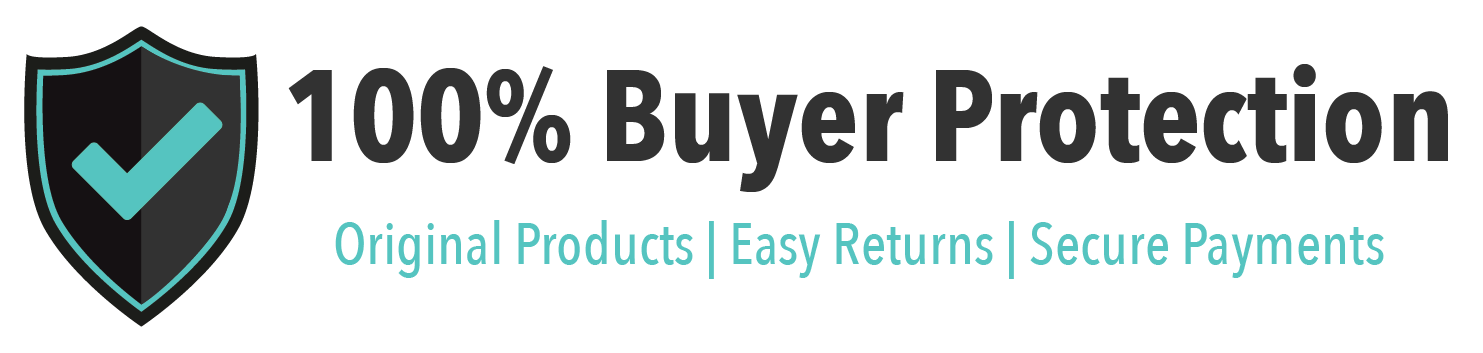
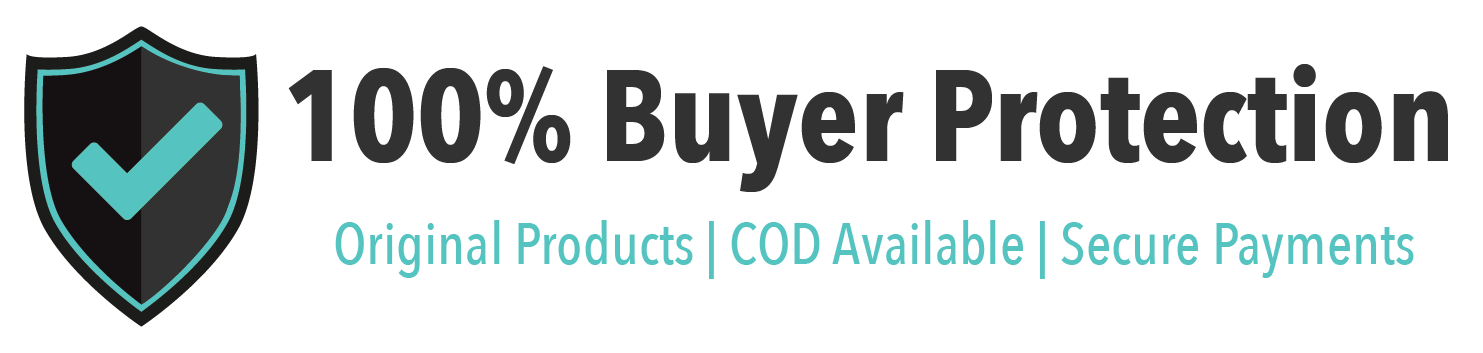
Updates for no return

Changed region(s): [[0.4963, 0.6232, 0.9616, 0.779]]

diff --git a/backend/returns/returns_request_logistics_partner.php b/backend/returns/returns_request_logistics_partner.php
@@ -1,33 +1,24 @@
 <?php
-
 include 'db_config.php';
 $path = __DIR__;
 require_once $path.'/../../app/Mage.php';
 Mage::app();
-
-
 $today = date("Y-m-d");
-
 $today = date('Y-m-d H:i:s', strtotime($today));
-
 $tomorrow = strtotime ( '+24 hours' , strtotime ($today )) ;  //Find tomorrow's date;
-
 $tomorrow = date('Y-m-d', $tomorrow);
-
 $query = "SELECT id FROM thredshare_returns WHERE pickup_date = '$tomorrow' AND waybill_number = '' AND status = 'requested'";
-
 $result = mysql_query($query);
-
 $numresult = mysql_numrows($result);
-
 $return_schedule_error_list = array();
-
-if($numresult >0)
+echo $numresult;
+if($numresult > 0)
 {
 	$i = 0;
 	while ( $i < $numresult )
 	{
 		$return_id = mysql_result($result,$i,'id');
+		echo $return_id;
 		
 		$query_fetch_returns_details = "SELECT * FROM thredshare_returns WHERE id = '$return_id'";
 			
@@ -37,7 +28,6 @@ if($numresult >0)
 		
 		if (mysql_numrows($result_fetch_returns_details) != 0)
 		{
-			
 			$mobile_no = mysql_result($result_fetch_returns_details,0,'mobile');
 			$address1 = mysql_result($result_fetch_returns_details,0,'address1');
 			$address2 = mysql_result($result_fetch_returns_details,0,'address2');
@@ -49,11 +39,10 @@ if($numresult >0)
 			$amount = mysql_result($result_fetch_returns_details,0,'amount');
 			$items = mysql_result($result_fetch_returns_details,0,'items');
 			
-			
+			echo $items;
 			//get firstname and lastname
 			
 			$collection = Mage::getModel('sales/order')->getCollection()->addFieldToFilter('increment_id', $order_id);
-
 			if ($collection->count() ==0)   //Check if order ID entered is valid
 			{
 				$order_id = $order_id."-1";
@@ -67,7 +56,6 @@ if($numresult >0)
 					continue;
 				}				
 			}
-
 			
 			$order = Mage::getModel('sales/order')->loadByIncrementId($order_id);
 			
@@ -100,11 +88,9 @@ if($numresult >0)
 			{
 				$items_name = "1 Apparel";
 			}
-
 			$items = $items_name;
 			
 			$response_nuvoex = request_nuvoex_for_reverse_pickup($return_id, $order_id, $mobile_no, $address1, $address2, $city, $state, $pincode, $first_name, $last_name, $items, $item_count);			
-
 			if($response_nuvoex['request_status'] == 'FALSE')
 			{
 				//Save the error
@@ -120,7 +106,6 @@ if($numresult >0)
 				//Schedule with Pickrr
 				
 				$response_pickrr = request_pickrr_for_reverse_pickup($order_id, $mobile_no, $address1, $address2, $city, $state, $pincode, $first_name, $last_name, $items, $item_count);
-
 				if($response_pickrr['request_status'] == 'FALSE')
 				{
 					//Save the error
@@ -167,7 +152,6 @@ if($numresult >0)
 		}
 		else
 		{
-
 			//Add to error list
 			$fault = "Return ID :".$return_id." Unable to fetch details. Not scheduled<br>";
 			array_push($return_schedule_error_list, $fault);
@@ -187,15 +171,11 @@ if($numresult >0)
 	}
 	
 	
-
 }
-
 else
 {
 	echo "No data to process";
 }
-
-
 function request_pickrr_for_reverse_pickup($order_id, $mobile_no, $address1, $address2, $city, $state, $pincode, $first_name, $last_name, $items, $item_count)
 {
 	
@@ -204,7 +184,6 @@ function request_pickrr_for_reverse_pickup($order_id, $mobile_no, $address1, $ad
 	$fullname = $first_name." ".$last_name;
 	
 	$fulladdress = $address1." ".$address2." ".$city." ".$state;
-
 	$time = date("Y-m-d h:i:s", strtotime($currdate));
 	
 	$is_reverse = TRUE;
@@ -227,10 +206,7 @@ function request_pickrr_for_reverse_pickup($order_id, $mobile_no, $address1, $ad
 		'is_reverse' => "$is_reverse",
 		'client_order_id' => "$order_id",
 	);
-
-
 	$content = json_encode($fields);
-
 	$curl = curl_init($url);
 	curl_setopt($curl, CURLOPT_FOLLOWLOCATION, true);
 	curl_setopt($curl,CURLOPT_SSL_VERIFYPEER, false);
@@ -240,20 +216,14 @@ function request_pickrr_for_reverse_pickup($order_id, $mobile_no, $address1, $ad
 			array("Content-type: application/json"));
 	curl_setopt($curl, CURLOPT_POST, true);
 	curl_setopt($curl, CURLOPT_POSTFIELDS, $content);
-
 	$json_response = curl_exec($curl);
-
 	$status = curl_getinfo($curl, CURLINFO_HTTP_CODE);
 	$err     = curl_errno( $curl );
 	$errmsg  = curl_error( $curl );
 	$header  = curl_getinfo( $curl );
-
-
 	/*if ( $status != 201 || $status != 200 ) {
 		die("Error: call to URL $url failed with status $status, response $json_response, curl_error " . curl_error($curl) . ", curl_errno " . curl_errno($curl));
 	}*/
-
-
 	curl_close($curl);
 	$response = json_decode($json_response, true);
 	$trackid = $response['tracking_id'];
@@ -281,7 +251,6 @@ function request_pickrr_for_reverse_pickup($order_id, $mobile_no, $address1, $ad
 	
 	
 }
-
 function request_nuvoex_for_reverse_pickup($return_id, $order_id, $mobile_no, $address1, $address2, $city, $state, $pincode, $first_name, $last_name, $items, $item_count)
 {
 	// Currently some pincodes are not operational for NuvoEX
@@ -337,16 +306,12 @@ function request_nuvoex_for_reverse_pickup($return_id, $order_id, $mobile_no, $a
 	return $return_array;
 	
 }
-
 function get_and_reserve_first_available_nuvoex_waybill()
 {
 	$type = 0;
 	$query = 'SELECT waybill FROM nuvoex_waybills WHERE used_flag = 0 LIMIT 1';
-
 	$result = mysql_query($query);
-
 	$numresult = mysql_numrows($result);
-
 	if( $numresult >0 )
 	{
 		$awb = mysql_result($result,0,'waybill');
@@ -385,12 +350,10 @@ function send_reverse_pickup_request_to_nuvoex($awb, $return_id, $mobile_no, $ad
 							"dto center" => "abcd",
 							"quantity" => $item_count
 					);
-
 	//add set of data in the encoded array
 	$post_param = array('data' => json_encode(array($fields1)));
 	//var_dump($post_param);
 	echo "\n";
-
 	$curl = curl_init($url);
 	curl_setopt($curl,CURLOPT_URL, $url);
 	curl_setopt($curl,CURLOPT_CUSTOMREQUEST, "POST");
@@ -398,34 +361,25 @@ function send_reverse_pickup_request_to_nuvoex($awb, $return_id, $mobile_no, $ad
 	curl_setopt($curl,CURLOPT_POSTFIELDS, $post_param);
 	curl_setopt($curl, CURLOPT_RETURNTRANSFER, TRUE);
 	curl_setopt($curl, CURLOPT_HTTPHEADER, array('Accept: application/json'));
-
-
 	$json_response = curl_exec($curl);
 	curl_close($curl);
-
 	$res = json_decode($json_response, true);
-
 	$status = $res['status'];
 	if($status != 'true')
 	{
-
 		$a = $res['error_data'][$awb];
 		$res_error = $a['type'];
 		echo "Error is ".$res_error;
 		return $res_error;
-
 	}
-
 	else
 	{
 		echo "Requested in Nuvo Ex successfully<br>";
 		return 200;
 	}
 }//setwaybill function ends
-
 function sendmail($subject, $body, $email, $cc)
 {
-
 	if (!class_exists("PHPMailer")){
 	$path = __DIR__;
     require($path.'/../PHPMailer/class.phpmailer.php');
@@ -433,7 +387,6 @@ function sendmail($subject, $body, $email, $cc)
 	$path = __DIR__;
 	require_once($path.'/../PHPMailer/class.smtp.php');
 	$exc = new phpmailerException();
-
 	try
 	{
 		echo "Preparing email<br>";
@@ -476,7 +429,5 @@ function sendmail($subject, $body, $email, $cc)
 		echo "Oh no";
 		return 0;
 	}
-
 }
-
 ?>

diff --git a/backend/returns/returns_order_id_validate.php b/backend/returns/returns_order_id_validate.php
@@ -98,7 +98,7 @@ if ($collection->count())   //Check if order ID entered is valid
 					echo "the order is in return state without products";
 				}	
 			}
-			else if( ($order_status == 'complete') || ($order_status == 'in_transit') || ($order_status == 'delivered') || ($order_status == 'processing') || ($order_status == 'undelivered'))
+			else if( (($order_status == 'complete') || ($order_status == 'in_transit') || ($order_status == 'delivered') || ($order_status == 'processing') || ($order_status == 'undelivered')) && ($order_number<100004185))
 			{
 					$product_brands = array();
 					$product_skus = array();
@@ -124,7 +124,7 @@ if ($collection->count())   //Check if order ID entered is valid
 			
 			else
 			{
-				echo 'Sorry ! You cannot place a return request for this order';
+				echo 'Sorry ! You cannot place a return request for this order. Please email at hello@rekinza.com for any queries.';
 			}
 		//}
 		}//for really_confirmed
